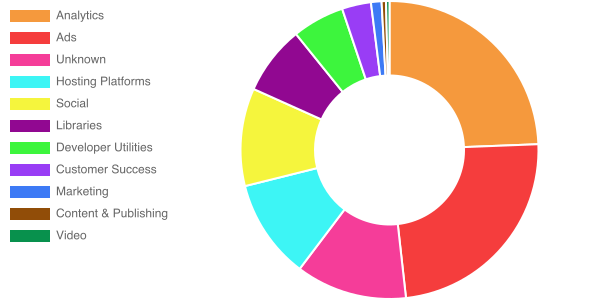
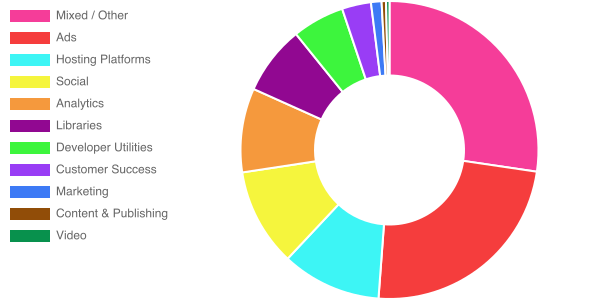
fix: reclassify Google Tag Manager as Mixed

diff --git a/README.md b/README.md
@@ -20,7 +20,7 @@ This document is a summary of which third party scripts are most responsible for
         1.  [Customer Success](#customer-success)
         1.  [Content & Publishing](#content)
         1.  [Libraries](#library)
-        1.  [Unknown](#other)
+        1.  [Mixed / Other](#other)
     1.  [Third Parties by Total Impact](#by-total-impact)
 1.  [Future Work](#future-work)
 1.  [FAQs](#faqs)
@@ -60,7 +60,7 @@ This section breaks down third parties by category. The third parties in each ca
 
 #### Overall Breakdown
 
-Unsurprisingly, ads account for the largest chunk of third party script execution followed by social and analytics.
+Unsurprisingly, ads account for the largest identifiable chunk of third party script execution. Other balloons as a category primarily due to Google Tag Manager which is used to deliver scripts in multiple categories. Google Tag Manager script execution alone is responsible for more than half of the "Mixed / Other" category.
 
 ![breakdown by category](./by-category.png)
 
@@ -104,10 +104,10 @@ These scripts measure or track users and their actions. There's a wide range in 
 | 1    | [Alexa](https://www.alexa.com/)                                    | 1,721     | 56 ms          |
 | 2    | [Baidu Analytics](https://tongji.baidu.com/web/welcome/login)      | 8,018     | 79 ms          |
 | 3    | [Mixpanel](https://mixpanel.com/)                                  | 7,258     | 79 ms          |
-| 4    | [Hotjar](https://www.hotjar.com/)                                  | 108,933   | 89 ms          |
-| 5    | [Crazy Egg](https://www.crazyegg.com/)                             | 2,214     | 91 ms          |
-| 6    | [Adobe Analytics](https://www.adobe.com/analytics-cloud.html)      | 34,436    | 192 ms         |
-| 7    | [Google Analytics](https://www.google.com/analytics/analytics/)    | 2,626,384 | 207 ms         |
+| 4    | [Google Analytics](https://www.google.com/analytics/analytics/)    | 1,533,217 | 79 ms          |
+| 5    | [Hotjar](https://www.hotjar.com/)                                  | 108,933   | 89 ms          |
+| 6    | [Crazy Egg](https://www.crazyegg.com/)                             | 2,214     | 91 ms          |
+| 7    | [Adobe Analytics](https://www.adobe.com/analytics-cloud.html)      | 34,436    | 192 ms         |
 | 8    | [Tealium](https://tealium.com/)                                    | 15,933    | 214 ms         |
 | 9    | [Segment](https://segment.com/)                                    | 6,581     | 228 ms         |
 | 10   | [Optimizely](https://www.optimizely.com/)                          | 13,853    | 247 ms         |
@@ -245,15 +245,16 @@ These are mostly open source libraries (e.g. jQuery) served over different publi
 
 <a name="other"></a>
 
-#### Unknown
+#### Mixed / Other
 
-These are miscellaneous scripts delivered via a shared origin with no clean category or attribution. Help us out by identifying more origins!
+These are miscellaneous scripts delivered via a shared origin with no precise category or attribution. Help us out by identifying more origins!
 
-| Rank | Name                                    | Usage     | Average Impact |
-| ---- | --------------------------------------- | --------- | -------------- |
-| 1    | [Amazon S3](https://aws.amazon.com/s3/) | 35,291    | 152 ms         |
-| 2    | [All Other 3rd Parties](#by-category)   | 1,649,095 | 198 ms         |
-| 3    | [Parking Crew](http://parkingcrew.net/) | 4,021     | 428 ms         |
+| Rank | Name                                                                          | Usage     | Average Impact |
+| ---- | ----------------------------------------------------------------------------- | --------- | -------------- |
+| 1    | [Amazon S3](https://aws.amazon.com/s3/)                                       | 35,291    | 152 ms         |
+| 2    | [All Other 3rd Parties](#by-category)                                         | 1,649,095 | 198 ms         |
+| 3    | [Google Tag Manager](https://marketingplatform.google.com/about/tag-manager/) | 1,093,167 | 386 ms         |
+| 4    | [Parking Crew](http://parkingcrew.net/)                                       | 4,021     | 428 ms         |
 
 <a name="by-total-impact"></a>
 
@@ -261,100 +262,101 @@ These are miscellaneous scripts delivered via a shared origin with no clean cate
 
 This section highlights the entities responsible for the most script execution across the web. This helps inform which improvements would have the largest total impact.
 
-| Name                                                               | Popularity | Total Impact | Average Impact |
-| ------------------------------------------------------------------ | ---------- | ------------ | -------------- |
-| [Google Analytics](https://www.google.com/analytics/analytics/)    | 2,626,384  | 543,041 s    | 207 ms         |
-| [Google/Doubleclick Ads](https://www.doubleclickbygoogle.com/)     | 1,412,404  | 466,442 s    | 330 ms         |
-| [All Other 3rd Parties](#by-category)                              | 1,649,095  | 326,279 s    | 198 ms         |
-| [Wix](https://www.wix.com/)                                        | 158,466    | 182,642 s    | 1153 ms        |
-| [Facebook](https://www.facebook.com)                               | 1,212,567  | 145,169 s    | 120 ms         |
-| [Google CDN](https://developers.google.com/speed/libraries/)       | 811,231    | 144,059 s    | 178 ms         |
-| [Google APIs/SDK](https://developers.google.com/apis-explorer/#p/) | 977,712    | 112,781 s    | 115 ms         |
-| [Yandex Metrica](https://metrica.yandex.com/about?)                | 217,229    | 81,926 s     | 377 ms         |
-| [WordAds](https://wordads.co/)                                     | 30,961     | 78,744 s     | 2543 ms        |
-| [AddThis](http://www.addthis.com/)                                 | 179,424    | 45,657 s     | 254 ms         |
-| [Twitter](https://twitter.com)                                     | 295,308    | 45,394 s     | 154 ms         |
-| [Zopim](https://www.zopim.com/)                                    | 55,964     | 38,494 s     | 688 ms         |
-| [Shopify](https://www.shopify.com/)                                | 227,933    | 37,169 s     | 163 ms         |
-| [Squarespace](https://www.squarespace.com/)                        | 86,605     | 35,683 s     | 412 ms         |
-| [Hatena Blog](https://hatenablog.com/)                             | 53,675     | 27,679 s     | 516 ms         |
-| [jQuery CDN](https://code.jquery.com/)                             | 170,001    | 26,146 s     | 154 ms         |
-| [PIXNET](https://www.pixnet.net/)                                  | 53,889     | 25,483 s     | 473 ms         |
-| [33 Across](https://33across.com/)                                 | 20,756     | 24,283 s     | 1170 ms        |
-| [Yandex APIs](https://yandex.ru/)                                  | 57,425     | 21,138 s     | 368 ms         |
-| [Cloudflare CDN](https://cdnjs.com/)                               | 119,800    | 21,084 s     | 176 ms         |
-| [ZenDesk](https://zendesk.com/)                                    | 36,411     | 17,340 s     | 476 ms         |
-| [Tawk.to](https://www.tawk.to/)                                    | 40,228     | 15,541 s     | 386 ms         |
-| [Sumo](https://sumo.com/)                                          | 39,747     | 15,492 s     | 390 ms         |
-| [Tumblr](https://tumblr.com/)                                      | 46,800     | 15,443 s     | 330 ms         |
-| [WordPress](https://wp.com/)                                       | 135,176    | 15,341 s     | 113 ms         |
-| [Moat](https://moat.com/)                                          | 23,170     | 14,281 s     | 616 ms         |
-| [AMP](https://www.ampproject.org/)                                 | 60,944     | 11,948 s     | 196 ms         |
-| [Salesforce](https://www.salesforce.com/products/marketing-cloud/) | 40,451     | 11,786 s     | 291 ms         |
-| [Yandex Ads](https://yandex.com/adv/)                              | 28,882     | 11,155 s     | 386 ms         |
-| [Sentry](https://sentry.io/)                                       | 15,272     | 11,134 s     | 729 ms         |
-| [OpenX](https://www.openx.com/)                                    | 12,505     | 10,269 s     | 821 ms         |
-| [Hotjar](https://www.hotjar.com/)                                  | 108,933    | 9,724 s      | 89 ms          |
-| [Beeketing](https://beeketing.com/)                                | 62,659     | 9,362 s      | 149 ms         |
-| [Criteo](https://www.criteo.com/)                                  | 63,058     | 8,659 s      | 137 ms         |
-| [ShareThis](https://www.sharethis.com/)                            | 39,884     | 8,618 s      | 216 ms         |
-| [Intercom](https://www.intercom.com/)                              | 15,511     | 8,588 s      | 554 ms         |
-| [Popads](https://www.popads.net/)                                  | 6,545      | 8,147 s      | 1245 ms        |
-| [MediaVine](https://www.mediavine.com/)                            | 9,205      | 7,723 s      | 839 ms         |
-| [Integral Ads](https://integralads.com/uk/)                        | 23,942     | 7,081 s      | 296 ms         |
-| [JSDelivr CDN](https://www.jsdelivr.com/)                          | 27,070     | 6,959 s      | 257 ms         |
-| [Adobe Analytics](https://www.adobe.com/analytics-cloud.html)      | 34,436     | 6,617 s      | 192 ms         |
-| [CreateJS CDN](http://code.createjs.com/)                          | 1,988      | 6,337 s      | 3188 ms        |
-| [Wistia](https://wistia.com/)                                      | 21,319     | 5,416 s      | 254 ms         |
-| [Amazon S3](https://aws.amazon.com/s3/)                            | 35,291     | 5,356 s      | 152 ms         |
-| [Histats](http://histats.com/)                                     | 15,770     | 5,343 s      | 339 ms         |
-| [Lucky Orange](https://www.luckyorange.com/)                       | 6,037      | 5,255 s      | 870 ms         |
-| [Distil Networks](https://www.distilnetworks.com/)                 | 11,489     | 4,695 s      | 409 ms         |
-| [Olark](https://www.olark.com/)                                    | 14,917     | 4,610 s      | 309 ms         |
-| [Taboola](https://www.taboola.com/)                                | 23,818     | 4,357 s      | 183 ms         |
-| [AppNexus](https://www.appnexus.com/)                              | 16,942     | 3,987 s      | 235 ms         |
-| [Yandex Share](https://yastatic.net/share2/share.js)               | 30,677     | 3,920 s      | 128 ms         |
-| [OneSignal](https://onesignal.com/)                                | 41,178     | 3,641 s      | 88 ms          |
-| [Mailchimp](https://mailchimp.com/)                                | 21,946     | 3,544 s      | 161 ms         |
-| [Optimizely](https://www.optimizely.com/)                          | 13,853     | 3,418 s      | 247 ms         |
-| [Tealium](https://tealium.com/)                                    | 15,933     | 3,407 s      | 214 ms         |
-| [Media Math](http://www.mediamath.com/)                            | 3,498      | 3,167 s      | 905 ms         |
-| [MGID](https://www.mgid.com/)                                      | 10,472     | 2,902 s      | 277 ms         |
-| [Brightcove](https://www.brightcove.com/en/)                       | 5,133      | 2,410 s      | 469 ms         |
-| [YouTube](https://youtube.com)                                     | 23,184     | 2,410 s      | 104 ms         |
-| [LiveChat](https://www.livechatinc.com/)                           | 23,881     | 2,216 s      | 93 ms          |
-| [Yahoo Ads](https://www.media.net/)                                | 8,495      | 2,098 s      | 247 ms         |
-| [DoubleVerify](https://www.doubleverify.com/)                      | 4,041      | 2,031 s      | 503 ms         |
-| [FontAwesome CDN](https://fontawesome.com/)                        | 17,002     | 1,728 s      | 102 ms         |
-| [Parking Crew](http://parkingcrew.net/)                            | 4,021      | 1,720 s      | 428 ms         |
-| [LinkedIn](https://www.linkedin.com/)                              | 10,663     | 1,659 s      | 156 ms         |
-| [PayPal](https://paypal.com)                                       | 6,376      | 1,539 s      | 241 ms         |
-| [Segment](https://segment.com/)                                    | 6,581      | 1,498 s      | 228 ms         |
-| [Hubspot](https://hubspot.com/)                                    | 15,991     | 1,430 s      | 89 ms          |
-| [Sizmek](https://www.sizmek.com/)                                  | 3,831      | 1,274 s      | 333 ms         |
-| [Albacross](https://albacross.com/)                                | 1,407      | 1,082 s      | 769 ms         |
-| [Market GID](https://www.marketgid.com/)                           | 3,831      | 1,049 s      | 274 ms         |
-| [Hotmart](https://www.hotmart.com/)                                | 1,008      | 821 s        | 814 ms         |
-| [Pinterest](https://pinterest.com/)                                | 11,122     | 795 s        | 71 ms          |
-| [Pubmatic](https://pubmatic.com/)                                  | 3,033      | 774 s        | 255 ms         |
-| [Baidu Analytics](https://tongji.baidu.com/web/welcome/login)      | 8,018      | 632 s        | 79 ms          |
-| [Drift](https://www.drift.com/)                                    | 3,929      | 615 s        | 156 ms         |
-| [Cloudflare](https://www.cloudflare.com/website-optimization/)     | 3,151      | 584 s        | 185 ms         |
-| [Mixpanel](https://mixpanel.com/)                                  | 7,258      | 573 s        | 79 ms          |
-| [VK](https://vk.com/)                                              | 7,578      | 460 s        | 61 ms          |
-| [Scorecard Research](https://www.scorecardresearch.com/)           | 4,740      | 427 s        | 90 ms          |
-| [Disqus](http://disqus.com/)                                       | 723        | 419 s        | 580 ms         |
-| [Vox Media](https://www.voxmedia.com/)                             | 702        | 392 s        | 558 ms         |
-| [Yandex CDN](https://yandex.ru/)                                   | 2,499      | 287 s        | 115 ms         |
-| [App Dynamics](https://www.appdynamics.com/)                       | 2,248      | 263 s        | 117 ms         |
-| [Stripe](https://stripe.com)                                       | 3,775      | 249 s        | 66 ms          |
-| [Crazy Egg](https://www.crazyegg.com/)                             | 2,214      | 201 s        | 91 ms          |
-| [New Relic](https://newrelic.com/)                                 | 3,613      | 189 s        | 52 ms          |
-| [OptinMonster](https://optinmonster.com/)                          | 1,483      | 188 s        | 127 ms         |
-| [Freshdesk](https://freshdesk.com/)                                | 973        | 150 s        | 154 ms         |
-| [Help Scout](https://www.helpscout.net/)                           | 665        | 132 s        | 198 ms         |
-| [Bootstrap CDN](https://bootstrapcdn.com/)                         | 2,860      | 126 s        | 44 ms          |
-| [Alexa](https://www.alexa.com/)                                    | 1,721      | 96 s         | 56 ms          |
+| Name                                                                          | Popularity | Total Impact | Average Impact |
+| ----------------------------------------------------------------------------- | ---------- | ------------ | -------------- |
+| [Google/Doubleclick Ads](https://www.doubleclickbygoogle.com/)                | 1,412,404  | 466,442 s    | 330 ms         |
+| [Google Tag Manager](https://marketingplatform.google.com/about/tag-manager/) | 1,093,167  | 421,590 s    | 386 ms         |
+| [All Other 3rd Parties](#by-category)                                         | 1,649,095  | 326,279 s    | 198 ms         |
+| [Wix](https://www.wix.com/)                                                   | 158,466    | 182,642 s    | 1153 ms        |
+| [Facebook](https://www.facebook.com)                                          | 1,212,567  | 145,169 s    | 120 ms         |
+| [Google CDN](https://developers.google.com/speed/libraries/)                  | 811,231    | 144,059 s    | 178 ms         |
+| [Google Analytics](https://www.google.com/analytics/analytics/)               | 1,533,217  | 121,451 s    | 79 ms          |
+| [Google APIs/SDK](https://developers.google.com/apis-explorer/#p/)            | 977,712    | 112,781 s    | 115 ms         |
+| [Yandex Metrica](https://metrica.yandex.com/about?)                           | 217,229    | 81,926 s     | 377 ms         |
+| [WordAds](https://wordads.co/)                                                | 30,961     | 78,744 s     | 2543 ms        |
+| [AddThis](http://www.addthis.com/)                                            | 179,424    | 45,657 s     | 254 ms         |
+| [Twitter](https://twitter.com)                                                | 295,308    | 45,394 s     | 154 ms         |
+| [Zopim](https://www.zopim.com/)                                               | 55,964     | 38,494 s     | 688 ms         |
+| [Shopify](https://www.shopify.com/)                                           | 227,933    | 37,169 s     | 163 ms         |
+| [Squarespace](https://www.squarespace.com/)                                   | 86,605     | 35,683 s     | 412 ms         |
+| [Hatena Blog](https://hatenablog.com/)                                        | 53,675     | 27,679 s     | 516 ms         |
+| [jQuery CDN](https://code.jquery.com/)                                        | 170,001    | 26,146 s     | 154 ms         |
+| [PIXNET](https://www.pixnet.net/)                                             | 53,889     | 25,483 s     | 473 ms         |
+| [33 Across](https://33across.com/)                                            | 20,756     | 24,283 s     | 1170 ms        |
+| [Yandex APIs](https://yandex.ru/)                                             | 57,425     | 21,138 s     | 368 ms         |
+| [Cloudflare CDN](https://cdnjs.com/)                                          | 119,800    | 21,084 s     | 176 ms         |
+| [ZenDesk](https://zendesk.com/)                                               | 36,411     | 17,340 s     | 476 ms         |
+| [Tawk.to](https://www.tawk.to/)                                               | 40,228     | 15,541 s     | 386 ms         |
+| [Sumo](https://sumo.com/)                                                     | 39,747     | 15,492 s     | 390 ms         |
+| [Tumblr](https://tumblr.com/)                                                 | 46,800     | 15,443 s     | 330 ms         |
+| [WordPress](https://wp.com/)                                                  | 135,176    | 15,341 s     | 113 ms         |
+| [Moat](https://moat.com/)                                                     | 23,170     | 14,281 s     | 616 ms         |
+| [AMP](https://www.ampproject.org/)                                            | 60,944     | 11,948 s     | 196 ms         |
+| [Salesforce](https://www.salesforce.com/products/marketing-cloud/)            | 40,451     | 11,786 s     | 291 ms         |
+| [Yandex Ads](https://yandex.com/adv/)                                         | 28,882     | 11,155 s     | 386 ms         |
+| [Sentry](https://sentry.io/)                                                  | 15,272     | 11,134 s     | 729 ms         |
+| [OpenX](https://www.openx.com/)                                               | 12,505     | 10,269 s     | 821 ms         |
+| [Hotjar](https://www.hotjar.com/)                                             | 108,933    | 9,724 s      | 89 ms          |
+| [Beeketing](https://beeketing.com/)                                           | 62,659     | 9,362 s      | 149 ms         |
+| [Criteo](https://www.criteo.com/)                                             | 63,058     | 8,659 s      | 137 ms         |
+| [ShareThis](https://www.sharethis.com/)                                       | 39,884     | 8,618 s      | 216 ms         |
+| [Intercom](https://www.intercom.com/)                                         | 15,511     | 8,588 s      | 554 ms         |
+| [Popads](https://www.popads.net/)                                             | 6,545      | 8,147 s      | 1245 ms        |
+| [MediaVine](https://www.mediavine.com/)                                       | 9,205      | 7,723 s      | 839 ms         |
+| [Integral Ads](https://integralads.com/uk/)                                   | 23,942     | 7,081 s      | 296 ms         |
+| [JSDelivr CDN](https://www.jsdelivr.com/)                                     | 27,070     | 6,959 s      | 257 ms         |
+| [Adobe Analytics](https://www.adobe.com/analytics-cloud.html)                 | 34,436     | 6,617 s      | 192 ms         |
+| [CreateJS CDN](http://code.createjs.com/)                                     | 1,988      | 6,337 s      | 3188 ms        |
+| [Wistia](https://wistia.com/)                                                 | 21,319     | 5,416 s      | 254 ms         |
+| [Amazon S3](https://aws.amazon.com/s3/)                                       | 35,291     | 5,356 s      | 152 ms         |
+| [Histats](http://histats.com/)                                                | 15,770     | 5,343 s      | 339 ms         |
+| [Lucky Orange](https://www.luckyorange.com/)                                  | 6,037      | 5,255 s      | 870 ms         |
+| [Distil Networks](https://www.distilnetworks.com/)                            | 11,489     | 4,695 s      | 409 ms         |
+| [Olark](https://www.olark.com/)                                               | 14,917     | 4,610 s      | 309 ms         |
+| [Taboola](https://www.taboola.com/)                                           | 23,818     | 4,357 s      | 183 ms         |
+| [AppNexus](https://www.appnexus.com/)                                         | 16,942     | 3,987 s      | 235 ms         |
+| [Yandex Share](https://yastatic.net/share2/share.js)                          | 30,677     | 3,920 s      | 128 ms         |
+| [OneSignal](https://onesignal.com/)                                           | 41,178     | 3,641 s      | 88 ms          |
+| [Mailchimp](https://mailchimp.com/)                                           | 21,946     | 3,544 s      | 161 ms         |
+| [Optimizely](https://www.optimizely.com/)                                     | 13,853     | 3,418 s      | 247 ms         |
+| [Tealium](https://tealium.com/)                                               | 15,933     | 3,407 s      | 214 ms         |
+| [Media Math](http://www.mediamath.com/)                                       | 3,498      | 3,167 s      | 905 ms         |
+| [MGID](https://www.mgid.com/)                                                 | 10,472     | 2,902 s      | 277 ms         |
+| [Brightcove](https://www.brightcove.com/en/)                                  | 5,133      | 2,410 s      | 469 ms         |
+| [YouTube](https://youtube.com)                                                | 23,184     | 2,410 s      | 104 ms         |
+| [LiveChat](https://www.livechatinc.com/)                                      | 23,881     | 2,216 s      | 93 ms          |
+| [Yahoo Ads](https://www.media.net/)                                           | 8,495      | 2,098 s      | 247 ms         |
+| [DoubleVerify](https://www.doubleverify.com/)                                 | 4,041      | 2,031 s      | 503 ms         |
+| [FontAwesome CDN](https://fontawesome.com/)                                   | 17,002     | 1,728 s      | 102 ms         |
+| [Parking Crew](http://parkingcrew.net/)                                       | 4,021      | 1,720 s      | 428 ms         |
+| [LinkedIn](https://www.linkedin.com/)                                         | 10,663     | 1,659 s      | 156 ms         |
+| [PayPal](https://paypal.com)                                                  | 6,376      | 1,539 s      | 241 ms         |
+| [Segment](https://segment.com/)                                               | 6,581      | 1,498 s      | 228 ms         |
+| [Hubspot](https://hubspot.com/)                                               | 15,991     | 1,430 s      | 89 ms          |
+| [Sizmek](https://www.sizmek.com/)                                             | 3,831      | 1,274 s      | 333 ms         |
+| [Albacross](https://albacross.com/)                                           | 1,407      | 1,082 s      | 769 ms         |
+| [Market GID](https://www.marketgid.com/)                                      | 3,831      | 1,049 s      | 274 ms         |
+| [Hotmart](https://www.hotmart.com/)                                           | 1,008      | 821 s        | 814 ms         |
+| [Pinterest](https://pinterest.com/)                                           | 11,122     | 795 s        | 71 ms          |
+| [Pubmatic](https://pubmatic.com/)                                             | 3,033      | 774 s        | 255 ms         |
+| [Baidu Analytics](https://tongji.baidu.com/web/welcome/login)                 | 8,018      | 632 s        | 79 ms          |
+| [Drift](https://www.drift.com/)                                               | 3,929      | 615 s        | 156 ms         |
+| [Cloudflare](https://www.cloudflare.com/website-optimization/)                | 3,151      | 584 s        | 185 ms         |
+| [Mixpanel](https://mixpanel.com/)                                             | 7,258      | 573 s        | 79 ms          |
+| [VK](https://vk.com/)                                                         | 7,578      | 460 s        | 61 ms          |
+| [Scorecard Research](https://www.scorecardresearch.com/)                      | 4,740      | 427 s        | 90 ms          |
+| [Disqus](http://disqus.com/)                                                  | 723        | 419 s        | 580 ms         |
+| [Vox Media](https://www.voxmedia.com/)                                        | 702        | 392 s        | 558 ms         |
+| [Yandex CDN](https://yandex.ru/)                                              | 2,499      | 287 s        | 115 ms         |
+| [App Dynamics](https://www.appdynamics.com/)                                  | 2,248      | 263 s        | 117 ms         |
+| [Stripe](https://stripe.com)                                                  | 3,775      | 249 s        | 66 ms          |
+| [Crazy Egg](https://www.crazyegg.com/)                                        | 2,214      | 201 s        | 91 ms          |
+| [New Relic](https://newrelic.com/)                                            | 3,613      | 189 s        | 52 ms          |
+| [OptinMonster](https://optinmonster.com/)                                     | 1,483      | 188 s        | 127 ms         |
+| [Freshdesk](https://freshdesk.com/)                                           | 973        | 150 s        | 154 ms         |
+| [Help Scout](https://www.helpscout.net/)                                      | 665        | 132 s        | 198 ms         |
+| [Bootstrap CDN](https://bootstrapcdn.com/)                                    | 2,860      | 126 s        | 44 ms          |
+| [Alexa](https://www.alexa.com/)                                               | 1,721      | 96 s         | 56 ms          |
 
 ## Future Work
 

diff --git a/lib/template.md b/lib/template.md
@@ -50,7 +50,7 @@ This section breaks down third parties by category. The third parties in each ca
 
 #### Overall Breakdown
 
-Unsurprisingly, ads account for the largest chunk of third party script execution followed by social and analytics.
+Unsurprisingly, ads account for the largest identifiable chunk of third party script execution. Other balloons as a category primarily due to Google Tag Manager which is used to deliver scripts in multiple categories. Google Tag Manager script execution alone is responsible for more than half of the "Mixed / Other" category.
 
 ![breakdown by category](./by-category.png)
 
